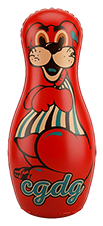
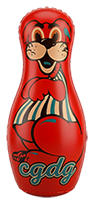
Pruebas y ajustes padding, resize img

diff --git a/index.html b/index.html
@@ -30,7 +30,7 @@
             <article class="about">
                <h2>Hola!</h2>
                <p>Soy Cecilia Gómez. A fines de los años 90 arranqué como autodidacta y un tiempo después, comencé la Licenciatura en Diseño y Comunicación Visual en la Universidad Nacional de Lanús. Mi trabajo se mueve entre el universo analógico y el digital, tomando elementos de ambos mundos para crear piezas con identidad. Considero que diseñar también es un modo de ver la vida, de trabajar y por qué no, de divertirse en el camino. Actualmente aterrizo ideas en Bífida Ediciones, editorial que llevo adelante colaborativamente; y cuando siento que puedo generar conciencia desde el diseño, participo en certámenes vinculados al afichismo social.</p>
-               <p class="perfil">Cuento con un perfil semi senior y experiencia en el desarrollo de piezas gráficas y sistemas visuales, con especial interés en proyectos editoriales. También me interesa trabajar en propuestas de packaging e identidad visual de marca.</p>
+               <p class="perfil">Cuento con un perfil semi senior y experiencia en el desarrollo de piezas gráficas y sistemas visuales, con especial interés en proyectos editoriales. También me interesan propuestas de packaging e identidad de marca.</p>
             </article>
             <article class="about">
                <h2>Participaciones</h2>
@@ -130,8 +130,8 @@
          </blockquote>
          <section id="contacto" class="contacto">
             <div class="foto-hover">
-               <img src="img/cgdg1.png" width="103" height="226" alt="Inflable canguro" class="img-base">
-               <img src="img/cgdg2.png" width="103" height="226" alt="Inflable canguro guiña un ojo" class="img-hover">
+               <img src="img/cgdg1.png" width="93" height="204" alt="Inflable canguro" class="img-base">
+               <img src="img/cgdg2.png" width="93" height="204" alt="Inflable canguro guiña un ojo" class="img-hover">
             </div>
             <p>Escribime a este <a href="mailto:hola.cgdg@gmail.com"> correo </a>si querés que trabajemos junt@s, comentarme algo o simplemente saludar</p>
          </section>

diff --git a/style.css b/style.css
@@ -79,23 +79,29 @@ a:hover {
 
 header,
 footer {
-	padding: 20px 30px;
+	padding: 20px 3%;
 }
 
 .intro,
+blockquote {
+	padding: 70px 5%;
+}
+
 .acerca-de-mi,
 .skills,
-.me-gusta,
-blockquote,
+.me-gusta {
+	padding: 70px 5% 140px 5%;	
+}
+
 .contacto {
-	padding: 70px 50px;
+	padding: 70px 5% 40px 5%;
 }
 
 #acerca-de-mi,
 #skills,
 #me-gusta,
 #contacto {
-	scroll-margin-top: 100px;
+	scroll-margin-top: 10vh;
 }
 
 
@@ -138,7 +144,6 @@ nav {
 	width: 100%;
 	height: 100%;
 	object-fit: cover;
-	display: block;
 }
 
 .intro p {
@@ -168,7 +173,7 @@ nav {
 
 .perfil {
 	color: white;
-	margin-top: 20px;
+	margin-top: 40px;
 }
 
 .about h2 {
